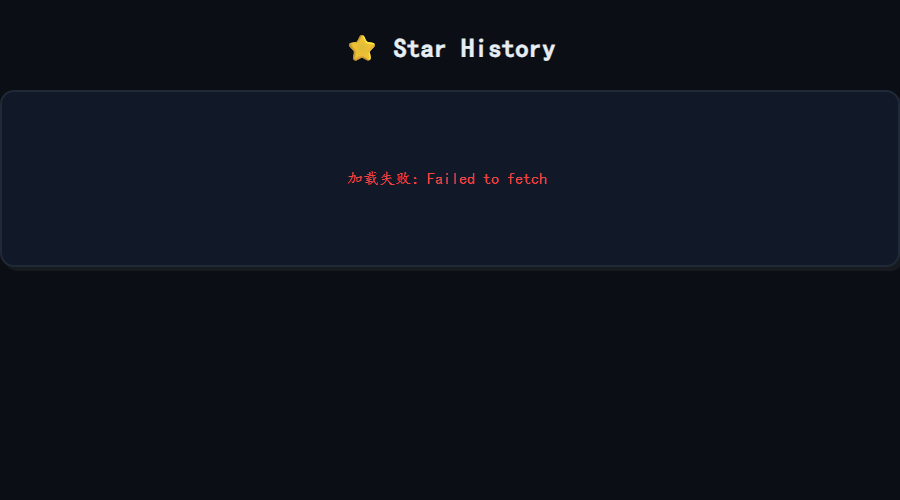
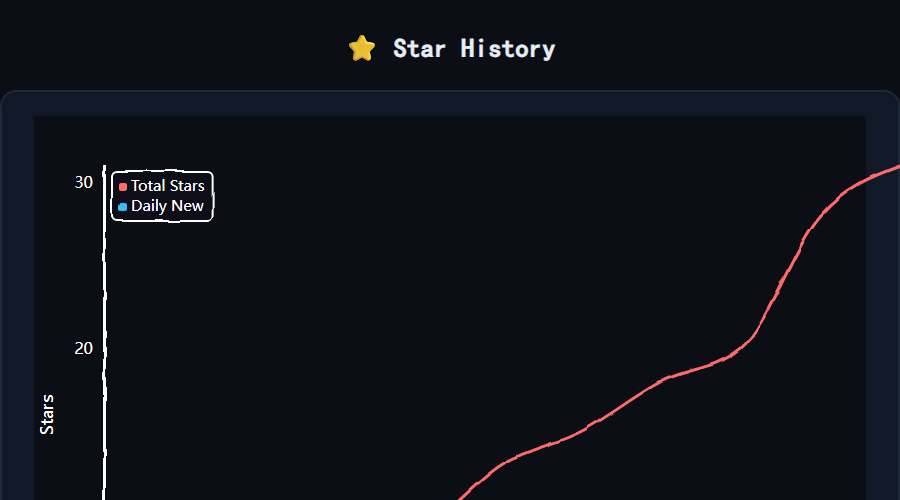
修复 Star History 内嵌显示与标题冗余：README 改用 Markdown 图片语法确保 GitHub 正确渲染 PNG，页面精简为单一标题并修复数据加载路径，静态资源与交互页一致

diff --git a/docs/star-history.html b/docs/star-history.html
@@ -9,11 +9,12 @@
 @import url('"https://fonts.googleapis.com/css2?family=Patrick+Hand&display=swap"');
 :root{--bg:#0b0e14;--fg:#e6edf3;--muted:#9aa3b2;--border:#1f2937;--card:#111827}
 *{box-sizing:border-box}body{margin:0;font-family:"Patrick Hand",cursive;background:var(--bg);color:var(--fg);line-height:1.6}
-header{max-width:900px;margin:0 auto;padding:28px 20px 0;text-align:center}h1{margin:0;font-size:26px;letter-spacing:0.02em}p.lead{margin:6px 0 0;color:var(--muted);font-size:14px;font-family:-apple-system,BlinkMacSystemFont,"Segoe UI",Helvetica,Arial,sans-serif}
-.card{max-width:900px;margin:20px auto;padding:18px 24px 18px 18px;background:var(--card);border:2px solid var(--border);border-radius:14px;box-shadow:4px 4px 0 rgba(255,255,255,0.05);overflow:visible}
+header{max-width:1000px;margin:0 auto;padding:28px 24px 0;text-align:center}h1{margin:0;font-size:26px;letter-spacing:0.02em}
+.card{max-width:1000px;margin:20px auto;padding:24px 32px 18px 32px;background:var(--card);border:2px solid var(--border);border-radius:16px;box-shadow:4px 4px 0 rgba(255,255,255,0.05);overflow:visible}
 svg{width:100%!important;height:auto!important;display:block;overflow:visible}
-.stats{display:flex;gap:12px;flex-wrap:wrap;margin-top:14px;font-family:-apple-system,BlinkMacSystemFont,"Segoe UI",Helvetica,Arial,sans-serif}
-.stat{flex:1 1 140px;background:var(--bg);border:2px solid var(--border);border-radius:10px;padding:12px;text-align:center}
+.stats{display:flex;gap:14px;flex-wrap:wrap;margin-top:18px;font-family:"Patrick Hand",cursive}
+.stat{flex:1 1 160px;background:var(--bg);border:2.5px solid var(--border);border-radius:14px;padding:14px;text-align:center;transform:rotate(-0.2deg);box-shadow:2px 2px 0 rgba(255,255,255,0.04)}
+.stat:nth-child(even){transform:rotate(0.3deg)}
 .stat b{font-size:22px;display:block;font-family:"Patrick Hand",cursive}.stat span{color:var(--muted);font-size:12px}
 .note{max-width:900px;margin:0 auto;padding:0 20px 28px;color:var(--muted);font-size:12px;text-align:center;font-family:-apple-system,BlinkMacSystemFont,"Segoe UI",Helvetica,Arial,sans-serif}a{color:#a78bfa;text-decoration:none}a:hover{text-decoration:underline}
 </style>
@@ -28,8 +29,10 @@ svg{width:100%!important;height:auto!important;display:block;overflow:visible}
 </div>
 <script>
 async function load(){
-  const res = await fetch(new URL("star-history.json", location.href).href, {cache:"no-store"});
-  const data = await res.json();
+  let data = null;
+  const urls = [new URL("star-history.json", location.href).href, "https://featherhunter.github.io/dsh-mattpocock-skills-deck/star-history.json", "https://raw.githubusercontent.com/FeatherHunter/dsh-mattpocock-skills-deck/main/docs/star-history.json"];
+  for (const url of urls) { try { const res = await fetch(url, {cache:"no-store"}); if (!res.ok) continue; const j = await res.json(); if (Array.isArray(j) && j.length) { data = j; break; } } catch(e) {} }
+  if (!data) throw new Error("star-history.json not found");
   if(!Array.isArray(data) || data.length===0){
     document.querySelector("#chart").outerHTML = "<p style=color:var(--muted);text-align:center;padding:40px>暂无数据</p>";
     return;
@@ -42,8 +45,8 @@ async function load(){
   const avgDaily = (dailys.reduce((a,b)=>a+b,0)/dailys.length).toFixed(1);
   document.getElementById("stats").innerHTML = `<div class=stat><b>${last.total}</b><span>当前 Stars</span></div><div class=stat><b>${maxDaily}</b><span>单日峰值</span></div><div class=stat><b>${avgDaily}</b><span>日均新增</span></div><div class=stat><b>${data.length}</b><span>有星之日</span></div>`;
   const svg = document.getElementById("chart");
-  // Fix right-edge clipping: fewer ticks and extra right padding
-  const tickCount = Math.min(5, Math.max(3, Math.ceil(labels.length / 2)));
+  // Fix crowding: show every other date, more right margin via chart padding
+  const tickCount = Math.min(4, Math.max(3, Math.ceil(labels.length / 3)));
   new chartXkcd.Line(svg, {
     title: "",
     xLabel: "Date",

diff --git a/docs/README.en.md b/docs/README.en.md
@@ -233,8 +233,6 @@ Scan to join the topic group — QR code never expires. Casual chat in the group
 
 <div align="center">
 
-<a href="https://featherhunter.github.io/dsh-mattpocock-skills-deck/star-history.html">
-  <img src="https://raw.githubusercontent.com/FeatherHunter/dsh-mattpocock-skills-deck/main/docs/star-history.png" alt="Star History Chart" width="800">
-</a>
+[![Star History Chart](https://raw.githubusercontent.com/FeatherHunter/dsh-mattpocock-skills-deck/main/docs/star-history.png)](https://featherhunter.github.io/dsh-mattpocock-skills-deck/star-history.html)
 
 </div>

diff --git a/README.md b/README.md
@@ -235,8 +235,6 @@ MIT © FeatherHunter
 
 <div align="center">
 
-<a href="https://featherhunter.github.io/dsh-mattpocock-skills-deck/star-history.html">
-  <img src="https://raw.githubusercontent.com/FeatherHunter/dsh-mattpocock-skills-deck/main/docs/star-history.png" alt="Star History Chart" width="800">
-</a>
+[![Star History Chart](https://raw.githubusercontent.com/FeatherHunter/dsh-mattpocock-skills-deck/main/docs/star-history.png)](https://featherhunter.github.io/dsh-mattpocock-skills-deck/star-history.html)
 
 </div>
